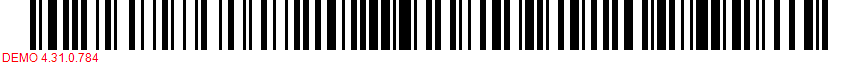
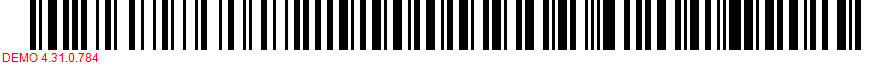
reporte facturacion con codigo de barra

diff --git a/SCF/SCF/facturas/generar_pdf.aspx.cs b/SCF/SCF/facturas/generar_pdf.aspx.cs
@@ -34,6 +34,7 @@ namespace SCF.facturas
 
             rvFacturaA.ProcessingMode = ProcessingMode.Local;
             rvFacturaA.LocalReport.ReportPath = Server.MapPath("..") + "\\reportes\\facturaA.rdlc";
+            rvFacturaA.LocalReport.EnableExternalImages = true;
             ReportParameter txtNroFactura = new ReportParameter("txtNroFactura", "002 - " +  Convert.ToInt32(dtFacturaActual.Rows[0]["numeroFactura"]).ToString("D8"));
             ReportParameter txtCliente = new ReportParameter("txtCliente", Convert.ToString(dtItemsFacturaActual.Rows[0]["razonSocialCliente"]));
             ReportParameter txtDomicilio = new ReportParameter("txtDomicilio", Convert.ToString(dtItemsFacturaActual.Rows[0]["direccionCliente"]));
@@ -45,8 +46,8 @@ namespace SCF.facturas
             ReportParameter txtIVA = new ReportParameter("txtIVA", Convert.ToString(Convert.ToDouble(dtFacturaActual.Rows[0]["subtotal"])*0.21));
             ReportParameter txtTotal = new ReportParameter("txtTotal", Convert.ToString(dtFacturaActual.Rows[0]["total"]));
             ReportParameter txtCAE = new ReportParameter("txtCAE", Convert.ToString(dtFacturaActual.Rows[0]["cae"]));
-            ReportParameter txtFechaVencimientoCAE = new ReportParameter("txtFechaVencimientoCAE", Convert.ToString(dtFacturaActual.Rows[0]["fechaVencimientoCAE"]).Remove(10,8));
-            ReportParameter txtFechaFacturacion = new ReportParameter("txtFechaFacturacion", Convert.ToString(dtFacturaActual.Rows[0]["fechaFacturacion"]).Remove(10,8));
+            ReportParameter txtFechaVencimientoCAE = new ReportParameter("txtFechaVencimientoCAE", Convert.ToString(dtFacturaActual.Rows[0]["fechaVencimientoCAE"]).Remove(10,9));
+            ReportParameter txtFechaFacturacion = new ReportParameter("txtFechaFacturacion", Convert.ToString(dtFacturaActual.Rows[0]["fechaFacturacion"]).Remove(10,9));
 
             // Create and setup an instance of Bytescout Barcode SDK
             Barcode bc = new Barcode(SymbologyType.Code128);
@@ -57,11 +58,16 @@ namespace SCF.facturas
             byte[] imgCodigoDeBarra = bc.GetImageBytesPNG();
             string urlBarCode = Server.MapPath(".") + "\\Comprobantes_AFIP\\codeBar.png";
             File.WriteAllBytes(urlBarCode, imgCodigoDeBarra);
-            
-            ReportParameter imgBarCode = new ReportParameter("imgBarCode", urlBarCode);
+
+            string imagePath = new Uri(Server.MapPath("~/facturas/Comprobantes_AFIP/codeBar.png")).AbsoluteUri;
+            ReportParameter imgBarCode = new ReportParameter("imgBarCode", imagePath);
+
+            //Agrego numero de codigo de barra
+            string NumeroCodigoBarra = ControladorGeneral.ConvertirBarCode(Convert.ToString(dtFacturaActual.Rows[0]["cae"]), Convert.ToDateTime(dtFacturaActual.Rows[0]["fechaFacturacion"]));
+            ReportParameter txtNumeroCodigoBarra = new ReportParameter("txtNumeroCodigoBarra", NumeroCodigoBarra);
 
             this.rvFacturaA.LocalReport.SetParameters(new ReportParameter[] { txtNroFactura,txtCliente,txtDomicilio,txtLocalidad,txtNroDocumento,txtNroRemitos,
-            txtCondicionVenta,txtSubtotal,txtIVA,txtTotal,txtCAE,txtFechaVencimientoCAE,txtFechaFacturacion,imgBarCode});
+            txtCondicionVenta,txtSubtotal,txtIVA,txtTotal,txtCAE,txtFechaVencimientoCAE,txtFechaFacturacion,imgBarCode,txtNumeroCodigoBarra});
             
             dsReporte.DataTable1.Clear();
             tablaReporte = dtItemsFacturaActual;

diff --git a/SCF/BibliotecaSCF/ClasesComplementarias/ManejoDeNHibernate.cs b/SCF/BibliotecaSCF/ClasesComplementarias/ManejoDeNHibernate.cs
@@ -21,8 +21,8 @@ namespace BibliotecaSCF.ClasesComplementarias
                 singleton = Fluently.Configure()
 
                // .Database(MsSqlConfiguration.MsSql2012.ConnectionString("data source=SUPLENTE4-PC\\EZEQUIELSQL;initial catalog=SCF;Integrated Security=SSPI;"))//Eze trabajo
-               //.Database(MsSqlConfiguration.MsSql2012.ConnectionString("data source=TSIS0220\\SQLEXPRESS;initial catalog=SCF;Integrated Security=SSPI;"))//Eze trabajo
-               .Database(MsSqlConfiguration.MsSql2008.ConnectionString("data source=localhost;initial catalog=SCF;Integrated Security=SSPI;"))//Eze PC
+               .Database(MsSqlConfiguration.MsSql2012.ConnectionString("data source=TSIS0220\\SQLEXPRESS;initial catalog=SCF;Integrated Security=SSPI;"))//Eze trabajo
+               //.Database(MsSqlConfiguration.MsSql2008.ConnectionString("data source=localhost;initial catalog=SCF;Integrated Security=SSPI;"))//Eze PC
                //.Database(MsSqlConfiguration.MsSql2008.ConnectionString("data source=localhost;initial catalog=SCF;user=sa;password=ana"))//Nico PC 
                //.Database(MsSqlConfiguration.MsSql2008.ConnectionString("data source=localhost;initial catalog=w1402088_SCF;user=w1402088_SCF;password=Algoritmos2015"))//Hosting
                 .Mappings(m => m.FluentMappings.AddFromAssemblyOf<ModuloPrueba>())

diff --git a/SCF/SCF/facturas/factura.aspx.cs b/SCF/SCF/facturas/factura.aspx.cs
@@ -42,9 +42,9 @@ namespace SCF.facturas
         private void CargarNumeroDeFactura()
         {
             //Obtengo el Ultimo numero de factura y le sumo 1.
-            DataTable tablaUltimaFactura = ControladorGeneral.RecuperarUltimaFactura();
-            txtNroFactura.Text = tablaUltimaFactura.Rows.Count > 0 ? (Convert.ToInt32(tablaUltimaFactura.Rows[0]["numeroFactura"]) + 1).ToString() : string.Empty;
-            //txtNroFactura.Text = "1";
+            //DataTable tablaUltimaFactura = ControladorGeneral.RecuperarUltimaFactura();
+            //txtNroFactura.Text = tablaUltimaFactura.Rows.Count > 0 ? (Convert.ToInt32(tablaUltimaFactura.Rows[0]["numeroFactura"]) + 1).ToString() : string.Empty;
+            txtNroFactura.Text = "6";
         }
 
         private void CargarComboTipoMoneda()
